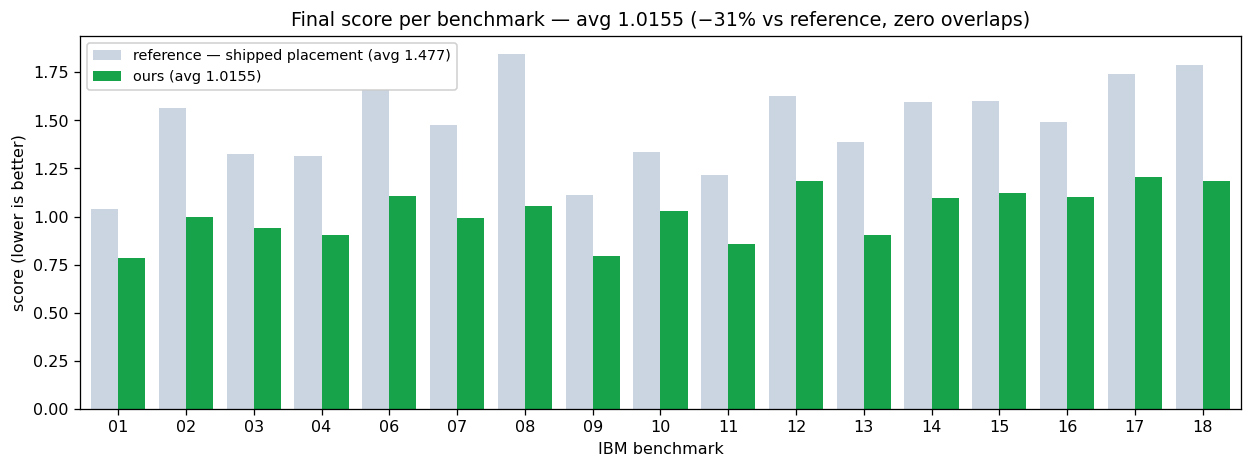
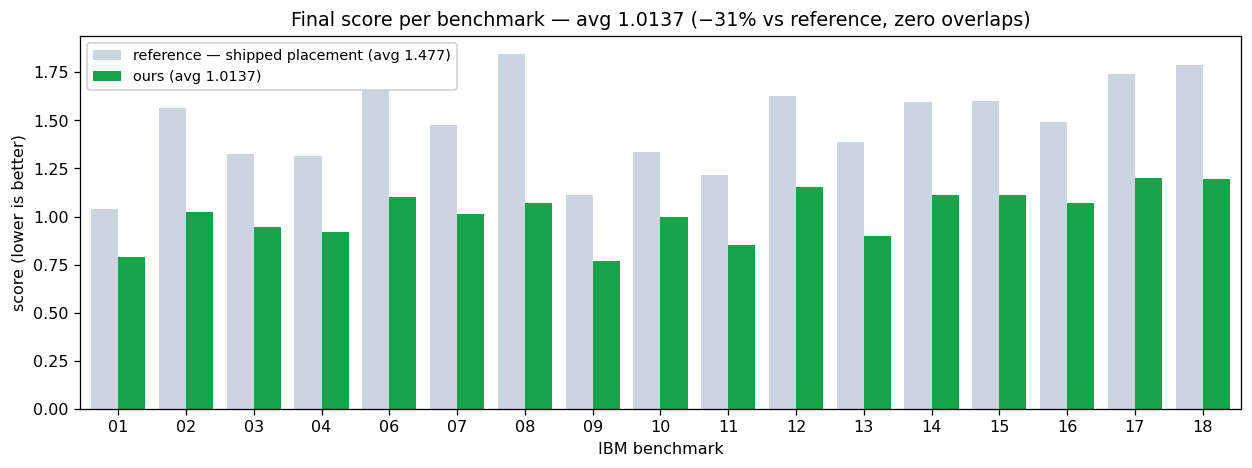
Update macro-placement write-up to the 1.0137 best-of-100 result: refresh index.html, regenerate the four optimization gifs from their winning runs and the per-benchmark chart, add the deployment-metric search plot.

diff --git a/projects/macro-placement/index.html b/projects/macro-placement/index.html
@@ -44,18 +44,18 @@ size), the cell clusters are dots. Every time, the reference wastes canvas and m
 <img class="wide" src="opt_ibm17.gif" alt="ibm17: reference | optimization | score curve">
 <img class="wide" src="opt_ibm18.gif" alt="ibm18: reference | optimization | score curve">
 
-<p><b>Result.</b> From <i>random</i> starting placements, my pipeline averages <b>1.0155</b> over all 17 —
+<p><b>Result.</b> From <i>random</i> starting placements, my pipeline averages <b>1.0137</b> over all 17 —
 <b>31% below</b> the reference placement provided with each benchmark (avg 1.477, a RePlAce-quality baseline;
 RePlAce itself scores 1.458), beating it on every design with zero overlaps. The design goal was generality:
 the global placer optimizes <b>any differentiable loss</b>, so wirelength, density, congestion, or a custom
 objective all drop into the same GPU engine unchanged.</p>
 
 <p class="note"><b>Compute.</b> A candidate takes ~3–6 min (GPU global stage ~80 s + CPU polish 1–5 min),
-inside the challenge's 1-hour-per-benchmark limit. The 1.0155 is best-of-<i>N</i> (16–40 candidates each); one
-candidate alone averages 1.105, and best-of-<i>N</i> fits the budget with a batched/parallel harness (I ran it
-across sessions instead). <b>Scope:</b> the score is soft-macro-dominated — co-optimizing the movable
-standard-cell clusters drives ~98% of the gain, hard-macro moves ~0.2% — so it measures soft-cell placement
-more than hard-macro placement.</p>
+inside the challenge's 1-hour-per-benchmark limit. The 1.0137 is best-of-<i>N</i> over a small pool of
+configs (~45 candidates/benchmark in the 1-hour budget), keeping the best per benchmark; a single candidate
+averages ~1.1. <b>Scope:</b> the score is soft-macro-dominated — co-optimizing the movable standard-cell
+clusters drives ~98% of the gain, hard-macro moves ~0.2% — so it measures soft-cell placement more than
+hard-macro placement.</p>
 
 <img class="fig" src="fig_perbench.png" alt="per-benchmark comparison">
 
@@ -89,10 +89,14 @@ reimplementation of the metric). It moves soft macros only, so hard-macro legali
 most of the absolute-quality work — 6.2% better than running greedy straight from the reference — and is why
 the score is soft-macro-dominated.</p>
 
-<h3>Multi-start</h3>
+<h3>Multi-start and the config pool</h3>
 <p>Different random starts vary a lot (~6%), so I place each design from many seeds and keep the best — the gap
-between the single-candidate 1.105 and best-of-<i>N</i> 1.0155. It saturates: past a few dozen candidates the
-gains flatten.</p>
+between a single candidate (~1.1) and best-of-<i>N</i> (1.0137). The candidates come from a small <i>pool</i>
+of configs run side by side: the tuned config (below), plus variants — the most useful <b>holds the density
+penalty off early</b> so wirelength can re-sort macro ordering before the layout tightens, with annealed
+same-size macro swaps on top. Different variants win different designs (that one wins 11 of 17), so pooling
+them and keeping the per-design best beats any single config. Best-of-<i>N</i> saturates fast: past a few dozen
+candidates the gains flatten — the run that produced 1.0137 already sits near that floor.</p>
 
 <h2>The tuned configuration</h2>
 <p>Weights and schedule were tuned by Bayesian optimization (~230 trials) on 3 designs (ibm01/13/17,
@@ -142,19 +146,19 @@ those behave differently. (Single-seed against a ~2% noise floor, so only the 5k
 <table>
 <thead><tr><th>design</th><th>reference</th><th>mine</th><th>ratio</th><th>design</th><th>reference</th><th>mine</th><th>ratio</th></tr></thead>
 <tbody>
-<tr><td>ibm01†</td><td>1.039</td><td>0.784</td><td class="win">0.755</td><td>ibm11</td><td>1.214</td><td>0.858</td><td class="win">0.707</td></tr>
-<tr><td>ibm02</td><td>1.566</td><td>0.996</td><td class="win">0.636</td><td>ibm12</td><td>1.625</td><td>1.186</td><td class="win">0.730</td></tr>
-<tr><td>ibm03</td><td>1.325</td><td>0.941</td><td class="win">0.710</td><td>ibm13†</td><td>1.385</td><td>0.906</td><td class="win">0.654</td></tr>
-<tr><td>ibm04</td><td>1.314</td><td>0.902</td><td class="win">0.687</td><td>ibm14</td><td>1.594</td><td>1.094</td><td class="win">0.687</td></tr>
-<tr><td>ibm06</td><td>1.658</td><td>1.107</td><td class="win">0.668</td><td>ibm15</td><td>1.603</td><td>1.122</td><td class="win">0.700</td></tr>
-<tr><td>ibm07</td><td>1.476</td><td>0.993</td><td class="win">0.673</td><td>ibm16</td><td>1.491</td><td>1.102</td><td class="win">0.739</td></tr>
-<tr><td>ibm08</td><td>1.847</td><td>1.057</td><td class="win">0.573</td><td>ibm17†</td><td>1.739</td><td>1.205</td><td class="win">0.693</td></tr>
-<tr><td>ibm09</td><td>1.110</td><td>0.797</td><td class="win">0.717</td><td>ibm18</td><td>1.790</td><td>1.185</td><td class="win">0.662</td></tr>
-<tr><td>ibm10</td><td>1.337</td><td>1.027</td><td class="win">0.768</td><td><b>AVG</b></td><td><b>1.477</b></td><td><b>1.0155</b></td><td class="win"><b>0.692</b></td></tr>
+<tr><td>ibm01†</td><td>1.039</td><td>0.790</td><td class="win">0.760</td><td>ibm11</td><td>1.214</td><td>0.853</td><td class="win">0.703</td></tr>
+<tr><td>ibm02</td><td>1.566</td><td>1.026</td><td class="win">0.655</td><td>ibm12</td><td>1.625</td><td>1.152</td><td class="win">0.709</td></tr>
+<tr><td>ibm03</td><td>1.325</td><td>0.944</td><td class="win">0.712</td><td>ibm13†</td><td>1.385</td><td>0.901</td><td class="win">0.651</td></tr>
+<tr><td>ibm04</td><td>1.314</td><td>0.920</td><td class="win">0.700</td><td>ibm14</td><td>1.594</td><td>1.112</td><td class="win">0.698</td></tr>
+<tr><td>ibm06</td><td>1.658</td><td>1.104</td><td class="win">0.666</td><td>ibm15</td><td>1.603</td><td>1.110</td><td class="win">0.693</td></tr>
+<tr><td>ibm07</td><td>1.476</td><td>1.011</td><td class="win">0.685</td><td>ibm16</td><td>1.491</td><td>1.071</td><td class="win">0.719</td></tr>
+<tr><td>ibm08</td><td>1.847</td><td>1.072</td><td class="win">0.580</td><td>ibm17†</td><td>1.739</td><td>1.199</td><td class="win">0.689</td></tr>
+<tr><td>ibm09</td><td>1.110</td><td>0.771</td><td class="win">0.694</td><td>ibm18</td><td>1.790</td><td>1.198</td><td class="win">0.669</td></tr>
+<tr><td>ibm10</td><td>1.337</td><td>1.000</td><td class="win">0.748</td><td><b>AVG</b></td><td><b>1.477</b></td><td><b>1.0137</b></td><td class="win"><b>0.690</b></td></tr>
 </tbody>
 </table>
-<p class="note">1.0155 is best-of-<i>N</i>; a single median candidate averages 1.105 (ratio 0.751). Both beat
-the reference on all 17, and both beat the RePlAce (1.458) and SA (2.125) baselines.</p>
+<p class="note">1.0137 is best-of-<i>N</i>; a single median candidate averages ~1.1. Both beat the reference on
+all 17, and both beat the RePlAce (1.458) and SA (2.125) baselines.</p>
 
 <h2>What I learned</h2>
 <p><b>Multi-start beats a lucky seed.</b> Single-seed scores carry ~2% noise — bigger than the gap between
@@ -163,6 +167,16 @@ best-of-16 reshuffled them and promoted one that had ranked only 5th on a single
 every appendix experiment, compares configs on the same seeds — otherwise you're measuring seed luck, not the
 change.</p>
 <img class="fig half" src="fig_finalize.png" alt="finalize reshuffle">
+
+<p><b>Per-run mechanisms can't beat multi-start.</b> The differentiable stage mostly <i>spreads</i> macros and
+rarely reorders them past each other, so I tried several fixes for that — an early overlap-tolerance window,
+discrete jumps, injected noise, annealed same-size swaps. Each improves the <i>typical</i> placement, but none
+beats best-of-<i>N</i>, and a paired variance test shows why: the mechanisms make runs <i>converge</i> (lower
+mean, up to ~10× lower spread), but best-of-<i>N</i> doesn't want the typical run — it wants the best of many,
+and the random-start spread already produces one at least as good. Tightening the distribution just thins the
+tail best-of-<i>N</i> is picking from. (The overlap-window variant earns its place in the pool only because at
+large <i>N</i> its <i>higher</i> variance occasionally wins a design outright.) The random-start variance isn't
+noise to remove — it's the search.</p>
 
 <p><b>It generalizes.</b> The frozen winning config (global stage only, no per-design selection) applied
 unchanged to all 17: held-out designs come in at 0.923 vs 0.885 on the 3 tuning designs — it transfers, with
@@ -182,9 +196,10 @@ reduces least — it depends on discrete <i>routing</i>, not a smooth function o
 leaderboard leaders (~0.9507) sits on the hard, congestion-bound designs (ibm08/17/18).</p>
 
 <h2>Where the remaining gap is</h2>
-<p>Two obvious levers I ruled out by paired experiment (appendix): an explicit congestion term in the global
-loss, and a congestion-directed greedy. Both are neutral-to-negative — the score is soft-cell-dominated and
-greedy already minimizes true congestion. Single-cell greedy plateaus for a mechanical reason: relieving a
+<p>Three levers I ruled out by paired experiment (appendix): an explicit congestion term in the global loss, a
+congestion-directed greedy, and a battery of macro-reordering mechanisms. All are neutral-to-negative — the
+score is soft-cell-dominated, greedy already minimizes true congestion, and best-of-<i>N</i> already finds the
+good orderings. Single-cell greedy plateaus for a mechanical reason: relieving a
 hot region needs moving <i>groups</i> of cells coherently, but any single move that vacates a congested cell
 lengthens its own nets and is rejected. The lever is a detailed placer with <b>coordinated multi-cell
 moves</b> (or a temperature that accepts transient wirelength increases) — not more tuning, not more
@@ -226,6 +241,30 @@ relief needs — which is what motivates the "coordinated moves" conclusion abov
 simulated-annealing-style acceptance, at matched compute) <b>never beats</b> running the global stage first,
 then greedy. The two stages are genuinely separate: the global stage sets the coarse arrangement, greedy does
 the fine detail on the true score.</p>
+
+<h3>Reordering the macro ordering</h3>
+<p>The global stage spreads macros continuously but rarely lets two cross past each other, so the random start
+largely fixes their ordering. I tried four ways to break that lock, each with its own Bayesian search on the
+deployment metric (best-of-<i>N</i> after greedy), each tested paired against the plain stage:</p>
+<ul>
+  <li><b>Overlap-tolerance window</b> — hold the deep-overlap penalty off early so macros stack and slide
+      through each other, then ramp it on. Single candidate ~5% better; best-of-<i>N</i> unchanged.</li>
+  <li><b>Jumps</b> — teleport high-wirelength macros to their net centroids early. Helps wirelength-bound
+      designs, hurts congestion-bound ones; net neutral.</li>
+  <li><b>Diffusion</b> — annealed noise (global, and a variant gated to overlapping macros only), mobility ∝
+      1/√area so big macros stay put. The crossing-scale is a wash; larger just scatters.</li>
+  <li><b>Annealed same-size swaps</b> — a simulated-annealing pass over swaps of equal-footprint macros
+      (density is invariant, so acceptance is on wirelength only), concurrent with the gradient. Reaches
+      multi-swap orderings single-move greedy can't — still no best-of-<i>N</i> gain.</li>
+</ul>
+<p>All four reduce the run-to-run variance best-of-<i>N</i> feeds on (the variance test above). The one kept —
+window + swaps — rides in the pool as a <i>high-variance</i> config that wins some designs at large <i>N</i>,
+not because per-run reordering helps.</p>
+<img class="fig" src="bayes_swap_trials.png" alt="deployment-metric search trajectory">
+<p class="note">These searches tune on the <b>deployment metric</b> — best-of-3 seeds after a short greedy
+polish, not single-seed — so each config is scored the way it's actually used. The winner (window + swaps)
+edges the no-mechanism baseline in this objective, but the variance test above is why that edge doesn't carry
+to best-of-<i>N</i> on all 17.</p>
 
 <h3>Other</h3>
 <ul>
